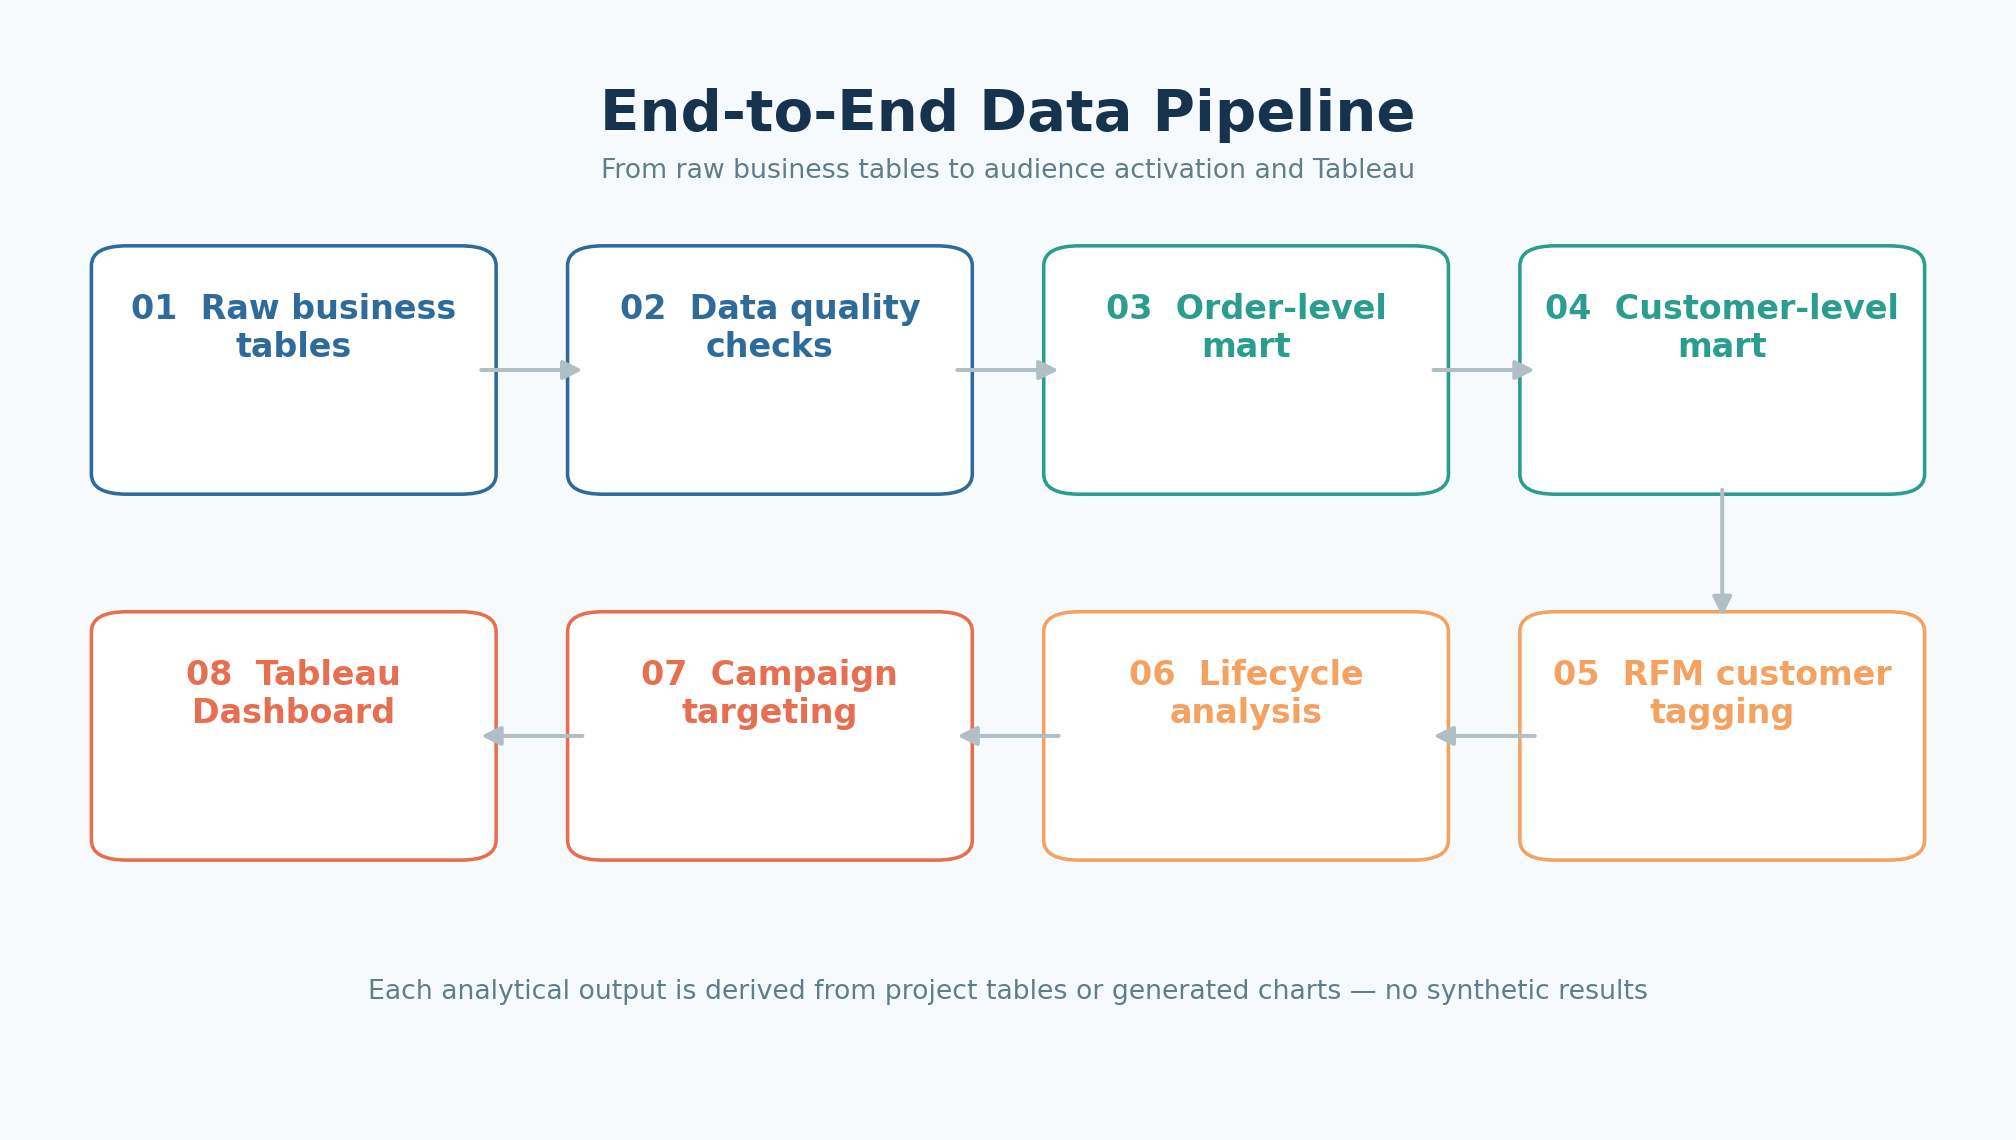
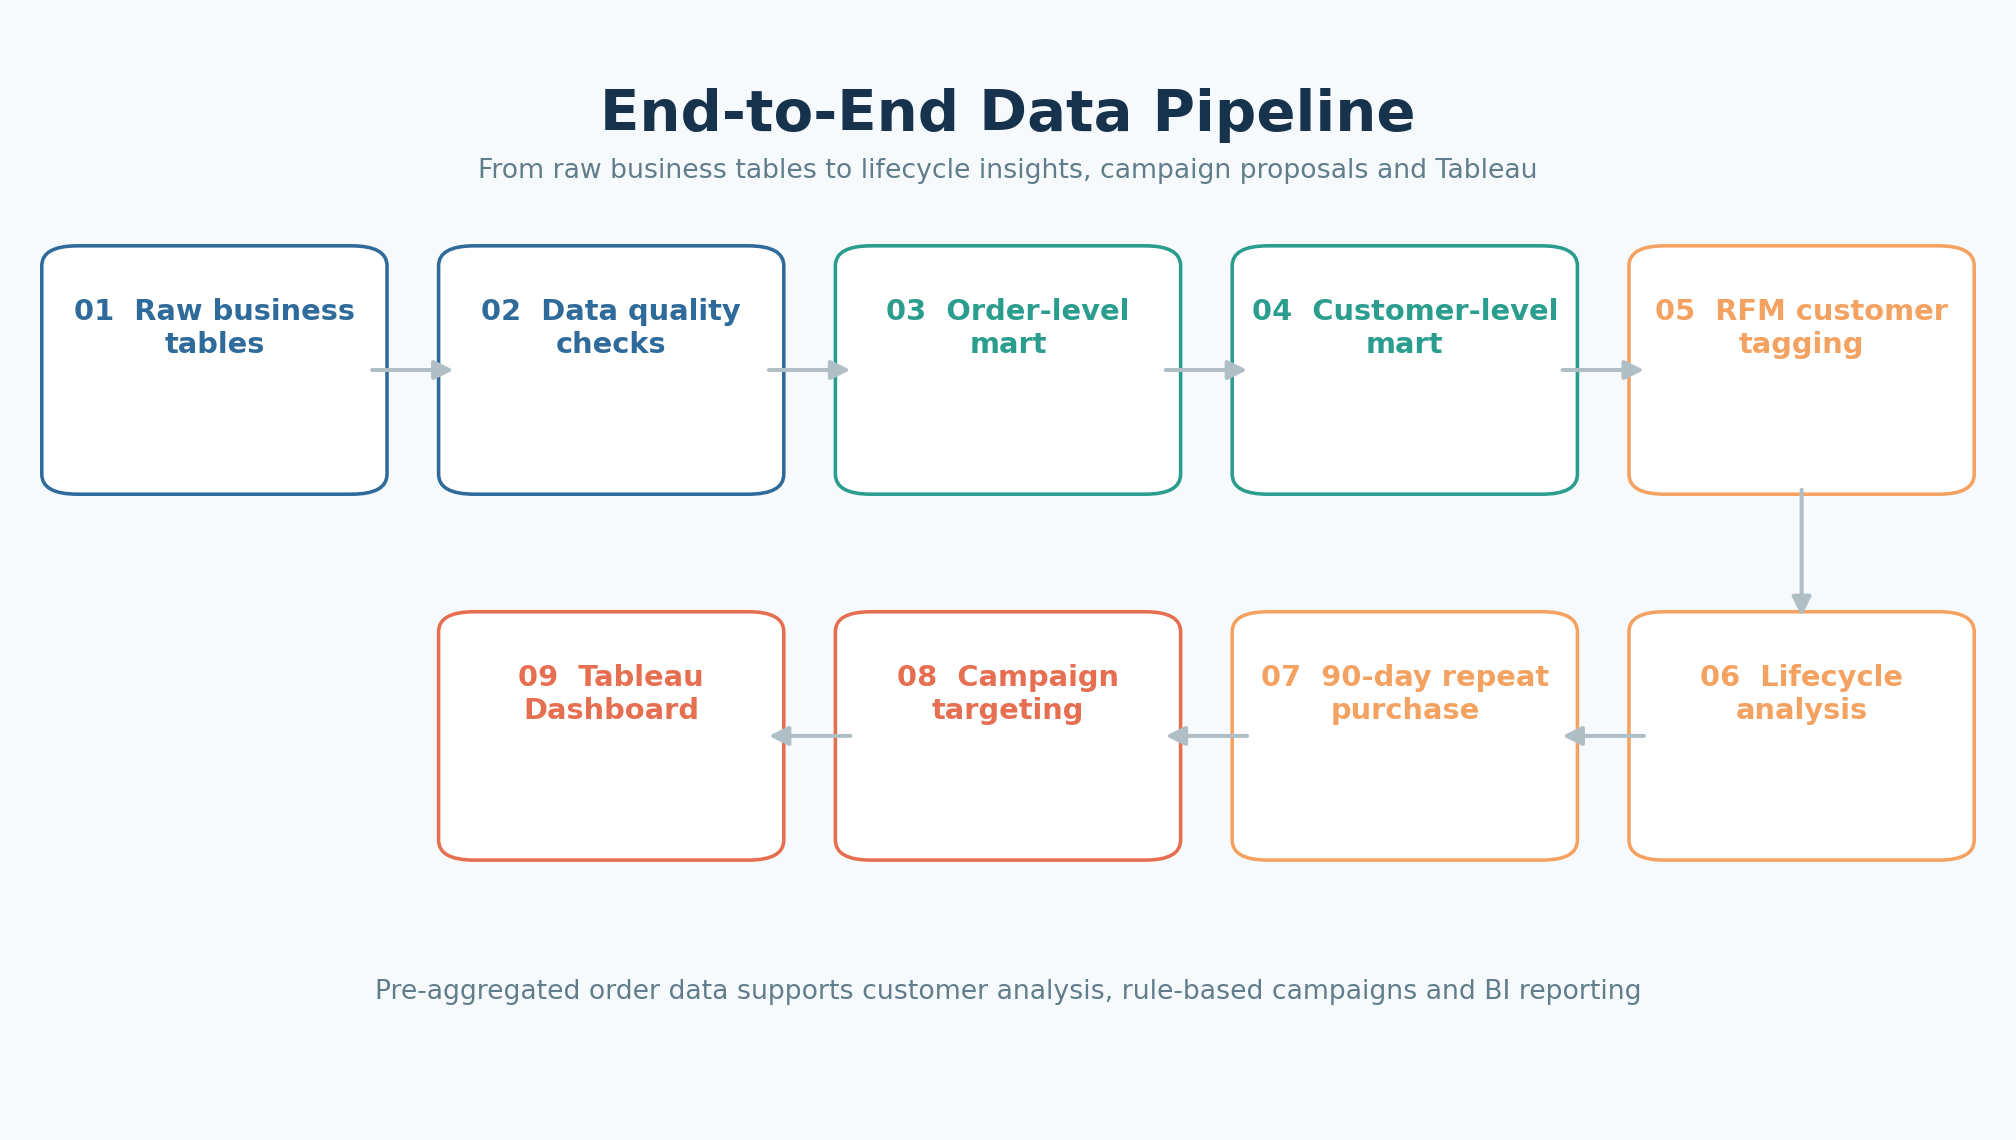
docs: finalize public release verification and pipeline preview

diff --git a/src/build_readme_assets.py b/src/build_readme_assets.py
@@ -1,4 +1,4 @@
-"""生成 GitHub README 使用的真实项目视觉素材。
+"""生成 README 使用的架构、流程和客户分层预览。
 
 流程图来自项目实际建模步骤；用户分层图来自已验证的 Tableau 导出数据。
 本模块不会生成或模拟 Tableau Dashboard 截图。
@@ -46,6 +46,7 @@ def _add_box(
     title: str,
     body: str,
     color: str,
+    title_size: float = 15,
 ) -> None:
     patch = FancyBboxPatch(
         (x, y),
@@ -63,7 +64,7 @@ def _add_box(
         title,
         ha="center",
         va="center",
-        fontsize=15,
+        fontsize=title_size,
         fontweight="bold",
         color=color,
     )
@@ -186,7 +187,7 @@ def build_pipeline_preview() -> Path:
     axis.text(
         0.5,
         0.86,
-        "From raw business tables to audience activation and Tableau",
+        "From raw business tables to lifecycle insights, campaign proposals and Tableau",
         ha="center",
         va="center",
         fontsize=12,
@@ -194,28 +195,29 @@ def build_pipeline_preview() -> Path:
     )
 
     steps = [
-        (0.05, 0.58, "01", "Raw business\ntables", COLORS["blue"]),
-        (0.29, 0.58, "02", "Data quality\nchecks", COLORS["blue"]),
-        (0.53, 0.58, "03", "Order-level\nmart", COLORS["teal"]),
-        (0.77, 0.58, "04", "Customer-level\nmart", COLORS["teal"]),
-        (0.77, 0.25, "05", "RFM customer\ntagging", COLORS["orange"]),
-        (0.53, 0.25, "06", "Lifecycle\nanalysis", COLORS["orange"]),
-        (0.29, 0.25, "07", "Campaign\ntargeting", COLORS["red"]),
-        (0.05, 0.25, "08", "Tableau\nDashboard", COLORS["red"]),
+        (0.025, 0.58, "01", "Raw business\ntables", COLORS["blue"]),
+        (0.225, 0.58, "02", "Data quality\nchecks", COLORS["blue"]),
+        (0.425, 0.58, "03", "Order-level\nmart", COLORS["teal"]),
+        (0.625, 0.58, "04", "Customer-level\nmart", COLORS["teal"]),
+        (0.825, 0.58, "05", "RFM customer\ntagging", COLORS["orange"]),
+        (0.825, 0.25, "06", "Lifecycle\nanalysis", COLORS["orange"]),
+        (0.625, 0.25, "07", "90-day repeat\npurchase", COLORS["orange"]),
+        (0.425, 0.25, "08", "Campaign\ntargeting", COLORS["red"]),
+        (0.225, 0.25, "09", "Tableau\nDashboard", COLORS["red"]),
     ]
     for x, y, number, title, color in steps:
-        _add_box(axis, x, y, 0.18, 0.2, f"{number}  {title}", "", color)
+        _add_box(axis, x, y, 0.15, 0.2, f"{number}  {title}", "", color, title_size=13)
 
-    for start_x, end_x in [(0.23, 0.29), (0.47, 0.53), (0.71, 0.77)]:
+    for start_x, end_x in [(0.175, 0.225), (0.375, 0.425), (0.575, 0.625), (0.775, 0.825)]:
         _add_arrow(axis, (start_x, 0.68), (end_x, 0.68))
-    _add_arrow(axis, (0.86, 0.58), (0.86, 0.45))
-    for start_x, end_x in [(0.77, 0.71), (0.53, 0.47), (0.29, 0.23)]:
+    _add_arrow(axis, (0.9, 0.58), (0.9, 0.45))
+    for start_x, end_x in [(0.825, 0.775), (0.625, 0.575), (0.425, 0.375)]:
         _add_arrow(axis, (start_x, 0.35), (end_x, 0.35))
 
     axis.text(
         0.5,
         0.12,
-        "Each analytical output is derived from project tables or generated charts — no synthetic results",
+        "Pre-aggregated order data supports customer analysis, rule-based campaigns and BI reporting",
         ha="center",
         va="center",
         fontsize=12,

diff --git a/PROJECT_RELEASE_CHECKLIST.md b/PROJECT_RELEASE_CHECKLIST.md
@@ -41,8 +41,7 @@
 - [x] 原始数据需从[数据来源](data/README.md)另行下载；完整客户名单、中间结果与诊断由流程生成。
 - [x] `.gitignore` 覆盖 `data/raw/*`、`*.csv`、`.env`、`*.pyc`、`.ipynb_checkpoints/`、本地配置、日志与 `outputs/local/`。
 - [x] 汇总 CSV、分析图、最终工作簿和截图按明确文件规则纳入版本控制。
-- [x] 当前待发布文件已移除已知数据库凭据、访问令牌和私钥；无超过 10 MB 的文件。
-- [ ] 已暴露的数据库密码完成轮换；远端旧提交与缓存处置完成并复核。
+- [x] 当前文件与 `main` 可达历史完成已知凭据及常见密钥模式扫描，未发现命中；无超过 10 MB 的发布文件。
 - [x] 项目代码采用 [MIT License](LICENSE)；Olist 数据及其改编结果遵循 CC BY-NC-SA 4.0，详见[数据许可说明](data/README.md)。
 
 ## 验证方式
